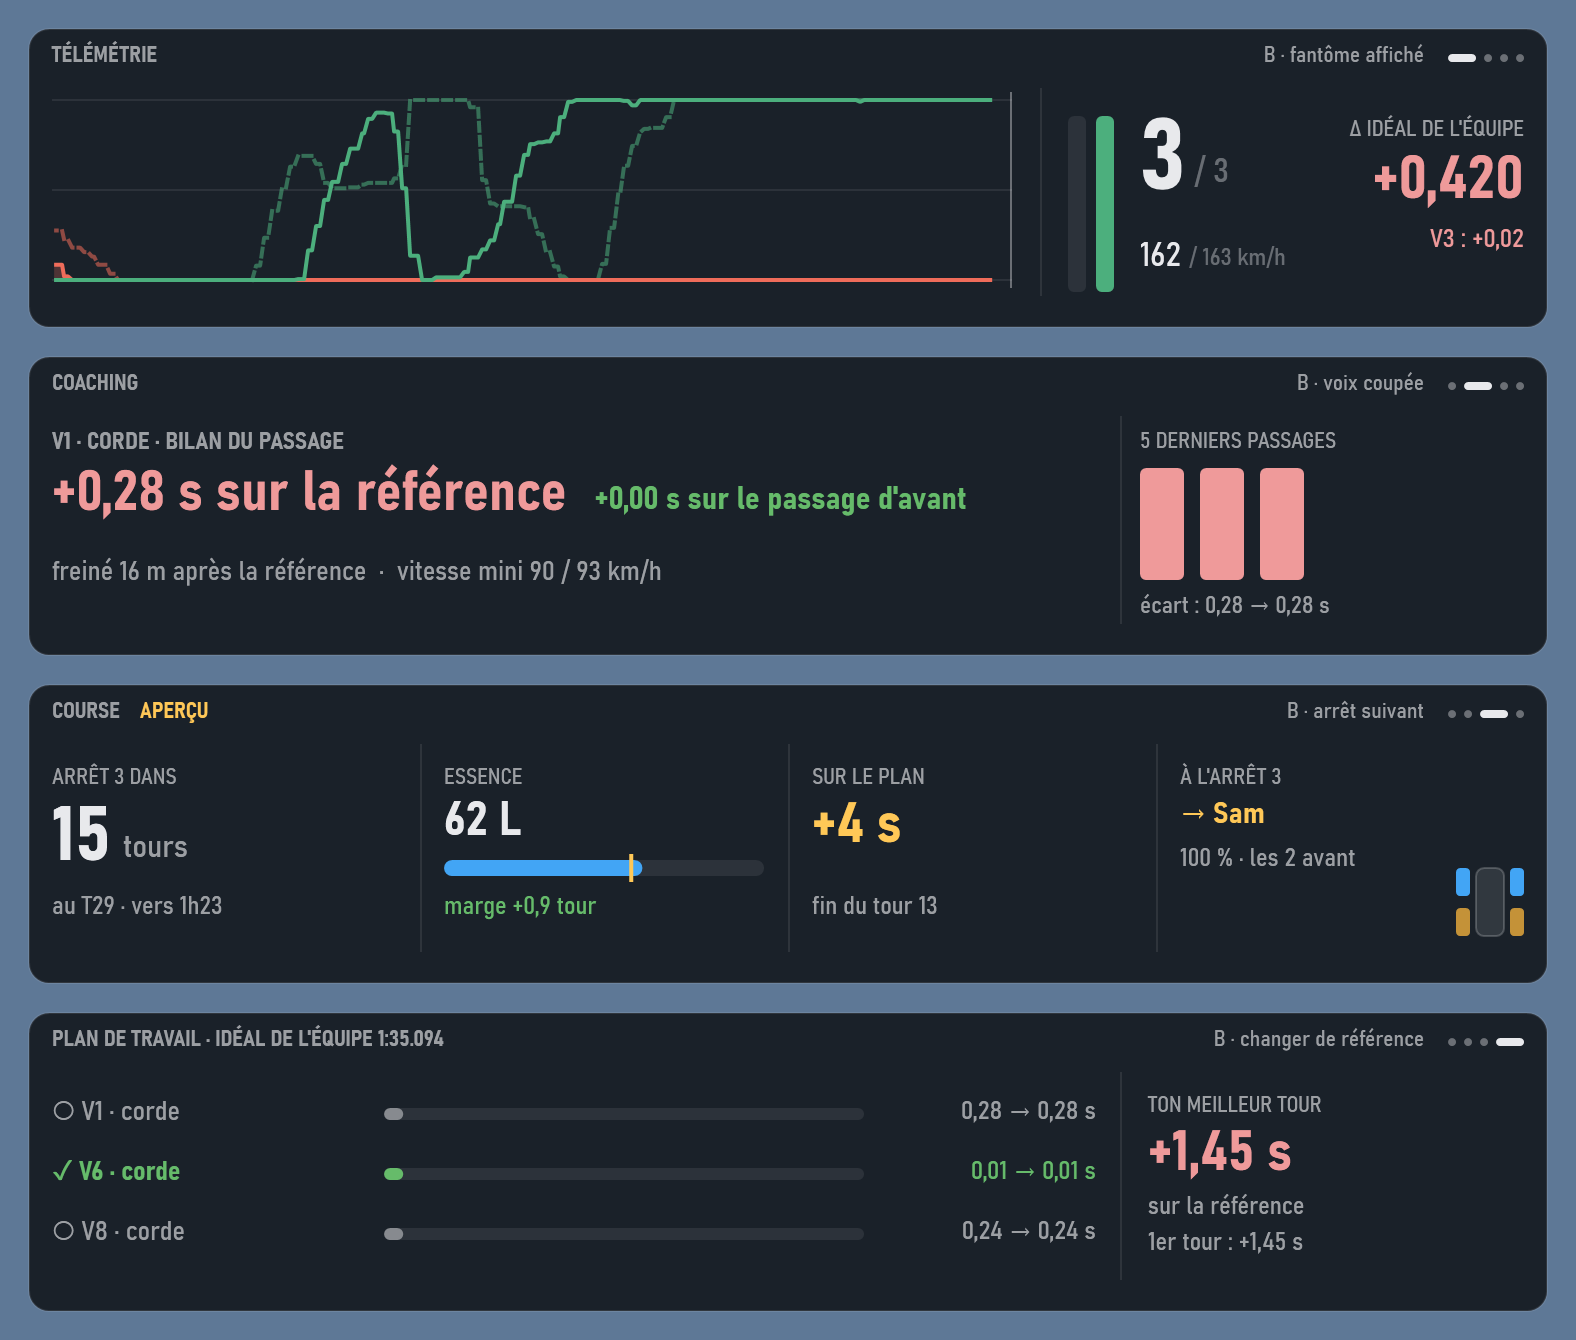
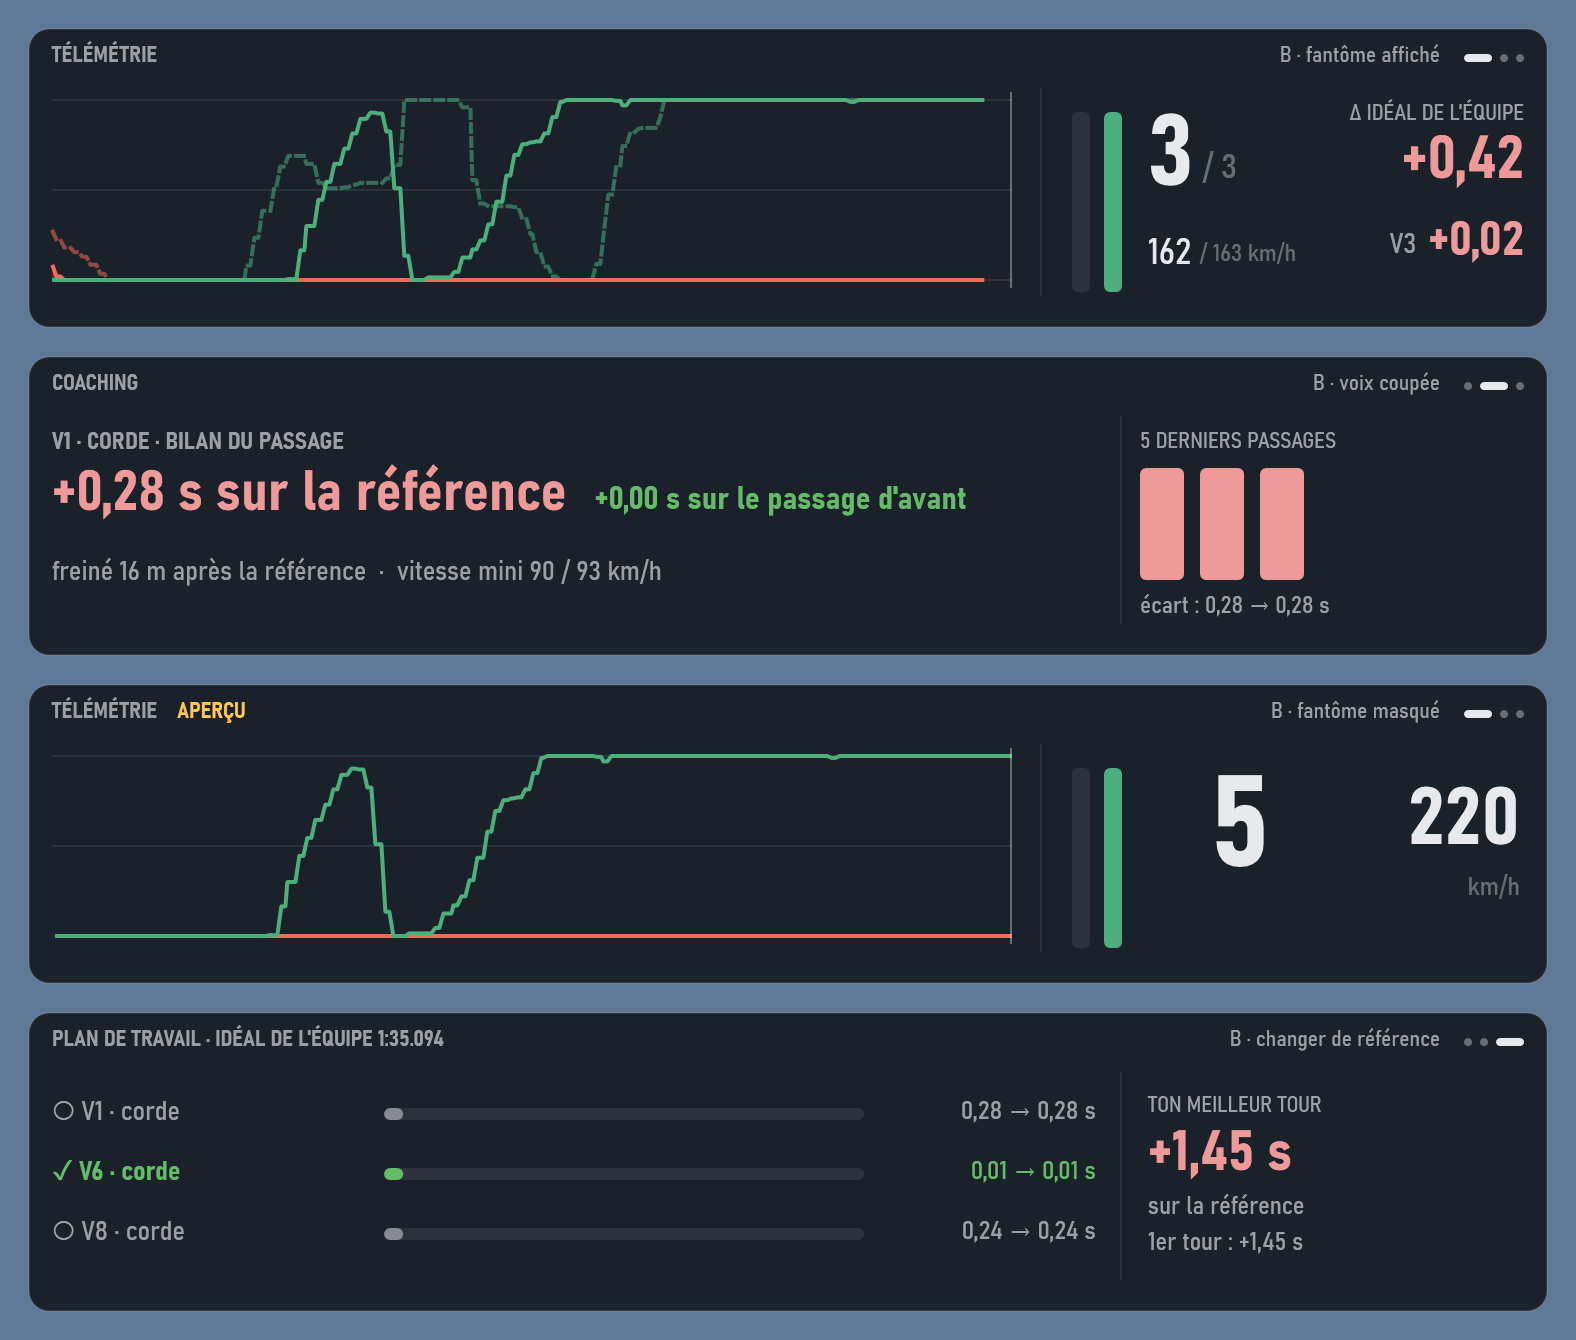
Release v4.5.1

diff --git a/OverlayView.cs b/OverlayView.cs
@@ -158,25 +158,64 @@ namespace User.TeamPace
             Poly(dc, _a, GasPen, false, 0);
             dc.DrawLine(NowPen, new Point(x0 + cw - 0.5, y0 + 2), new Point(x0 + cw - 0.5, y0 + ch - 4));
 
-            // Right: pedals, gear and speed, gap to the reference
+            // Right: pedals, gear, speed. Numbers calm down (smoothed, shown 4 times a second), as on a dashboard
+            Smooth();
             dc.DrawRectangle(Sep, null, new Rect(506, 30, 1, 104));
-            Bar(dc, 520, 44, 88, OverlayService.Brake, Brk);
-            Bar(dc, 534, 44, 88, OverlayService.Throttle, Gas);
-            double gw = T(dc, OverlayService.Gear, 556, 36, 50, Text, true);
-            if (ghost && OverlayService.RefGear > 0) T(dc, "/ " + OverlayService.RefGear, 560 + gw, 62, 17, Faint);
-            double sw = T(dc, OverlayService.Speed.ToString("0", Fr), 556, 104, 17, Text);
-            T(dc, ghost && !double.IsNaN(OverlayService.RefSpeed) ? "/ " + OverlayService.RefSpeed.ToString("0", Fr) + " km/h" : "km/h", 560 + sw, 108, 12, Faint);
+            Bar(dc, 522, 42, 90, OverlayService.Brake, Brk);
+            Bar(dc, 538, 42, 90, OverlayService.Throttle, Gas);
+            if (!ghost)
+            {
+                // Without the ghost: the car only, nothing compared
+                T(dc, OverlayService.Gear, 606, 34, 64, Text, true, 2);
+                T(dc, double.IsNaN(_sSpeed) ? "—" : _sSpeed.ToString("0", Fr), W - 14, 44, 40, Text, true, 1);
+                T(dc, "km/h", W - 14, 94, 13, Faint, false, 1);
+                return;
+            }
+            double gw = T(dc, OverlayService.Gear, 560, 34, 50, Text, true);
+            if (OverlayService.RefGear > 0) T(dc, "/ " + OverlayService.RefGear, 564 + gw, 60, 17, Faint);
+            double sw = T(dc, double.IsNaN(_sSpeed) ? "—" : _sSpeed.ToString("0", Fr), 560, 102, 18, Text);
+            T(dc, !double.IsNaN(_sRefSpeed) ? "/ " + _sRefSpeed.ToString("0", Fr) + " km/h" : "km/h", 564 + sw, 106, 12, Faint);
 
             var r = OverlayService.Reference;
             string refName = r != null ? r.Label : OverlayService.Demo ? "Idéal de l'équipe" : "pas de référence";
-            T(dc, "Δ " + refName.ToUpperInvariant(), W - 12, 44, 11, Muted, false, 1);
-            double d = OverlayService.Delta;
-            T(dc, double.IsNaN(d) ? "—" : Signed(d, "0.000"), W - 12, 58, 30, GapBrush(d), true, 1);
-            double cd = OverlayService.CornerDelta;
-            if (!double.IsNaN(cd))
-                T(dc, "V" + OverlayService.CornerNumber + " : " + Signed(cd, "0.00"), W - 12, 98, 13, GapBrush(cd), false, 1);
+            T(dc, "Δ " + refName.ToUpperInvariant(), W - 12, 36, 11, Muted, false, 1);
+            T(dc, double.IsNaN(_sDelta) ? "—" : Signed(_sDelta, "0.00"), W - 12, 48, 30, GapBrush(_sDelta), true, 1);
+            if (!double.IsNaN(_sCorner))
+            {
+                double vw = T(dc, Signed(_sCorner, "0.00"), W - 12, 92, 24, GapBrush(_sCorner), true, 1);
+                T(dc, "V" + _shownCorner, W - 18 - vw, 100, 14, Muted, false, 1);
+            }
             else if (r == null && !OverlayService.Demo)
                 T(dc, "voir l'onglet Overlay", W - 12, 98, 12, Faint, false, 1);
+        }
+
+        // ─── Calm numbers: smoothed over about half a second, redrawn 4 times a second ─────
+
+        private double _last = double.NaN, _nextShow;
+        private double _fDelta = double.NaN, _fCorner = double.NaN, _fSpeed = double.NaN, _fRefSpeed = double.NaN;
+        private double _sDelta = double.NaN, _sCorner = double.NaN, _sSpeed = double.NaN, _sRefSpeed = double.NaN;
+        private int _corner = -1, _shownCorner;
+
+        private void Smooth()
+        {
+            double now = OverlayService.Now;
+            double dt = double.IsNaN(_last) ? 1 : Math.Max(0, Math.Min(1, now - _last));
+            _last = now;
+            _fDelta = Ema(_fDelta, OverlayService.Delta, dt, 0.6);
+            if (OverlayService.CornerNumber != _corner) { _corner = OverlayService.CornerNumber; _fCorner = double.NaN; }   // a new corner starts from its own gap
+            _fCorner = Ema(_fCorner, OverlayService.CornerDelta, dt, 0.6);
+            _fSpeed = Ema(_fSpeed, OverlayService.Speed, dt, 0.2);
+            _fRefSpeed = Ema(_fRefSpeed, OverlayService.RefSpeed, dt, 0.2);
+            if (now < _nextShow) return;
+            _nextShow = now + 0.25;
+            _sDelta = _fDelta; _sCorner = _fCorner; _sSpeed = _fSpeed; _sRefSpeed = _fRefSpeed; _shownCorner = _corner;
+        }
+
+        private static double Ema(double filtered, double value, double dt, double tau)
+        {
+            if (double.IsNaN(value)) return double.NaN;
+            if (double.IsNaN(filtered)) return value;
+            return filtered + (value - filtered) * (1 - Math.Exp(-dt / tau));
         }
 
         private static void Poly(DrawingContext dc, List<Point> pts, Pen pen, bool fill, double baseY)

diff --git a/Properties/AssemblyInfo.cs b/Properties/AssemblyInfo.cs
@@ -7,5 +7,5 @@ using System.Runtime.InteropServices;
 [assembly: AssemblyProduct("TeamPace")]
 [assembly: AssemblyCopyright("")]
 [assembly: ComVisible(false)]
-[assembly: AssemblyVersion("4.5.0.0")]
-[assembly: AssemblyFileVersion("4.5.0.0")]
+[assembly: AssemblyVersion("4.5.1.0")]
+[assembly: AssemblyFileVersion("4.5.1.0")]

diff --git a/README.md b/README.md
@@ -381,10 +381,11 @@ du rétroviseur central. Il a quatre pages, qu'on fait défiler avec les boutons
 
 ![Les quatre pages de l'overlay](docs/images/17-overlay.png)
 
-1. **Télémétrie** : votre accélérateur et votre frein des dernières secondes, le rapport, la
-   vitesse et l'écart en direct avec le tour de référence. Avec le **fantôme**, les pédales, le
-   rapport et la vitesse de la référence au même endroit de la piste s'affichent en pointillés,
-   avec l'écart sur le virage en cours.
+1. **Télémétrie** : votre accélérateur et votre frein des dernières secondes, le rapport et la
+   vitesse, rien d'autre. Avec le **fantôme** (bouton B), les pédales, le rapport et la vitesse de
+   la référence au même endroit de la piste s'affichent en pointillés, avec l'écart au tour et
+   l'écart sur le virage en cours. Les chiffres sont lissés et rafraîchis 4 fois par seconde, comme
+   sur un dashboard.
 2. **Coaching** : les virages du Plan de travail (trois au plus). Avant chacun, la consigne
    (« Freine 15 m plus tard ») et un compte à rebours jusqu'au point de freinage de la
    référence, avec un trait blanc sur votre freinage précédent ; après, le bilan du passage

diff --git a/CHANGELOG.md b/CHANGELOG.md
@@ -3,6 +3,12 @@
 Chaque version est publiée dans les [releases](../../releases) et proposée automatiquement dans
 TeamPace par le bandeau de mise à jour.
 
+## 4.5.1
+
+- **Overlay, télémétrie** : fantôme masqué, plus aucune comparaison (pédales, rapport, vitesse
+  seulement). Les chiffres sont lissés et rafraîchis 4 fois par seconde au lieu de 30 : ils ne
+  scintillent plus. L'écart sur le virage est plus gros, l'écart au tour au centième.
+
 ## 4.5.0
 
 - **Overlay : pages par type de session.** Un tableau (essais, qualif, course × pages) dit quelles
